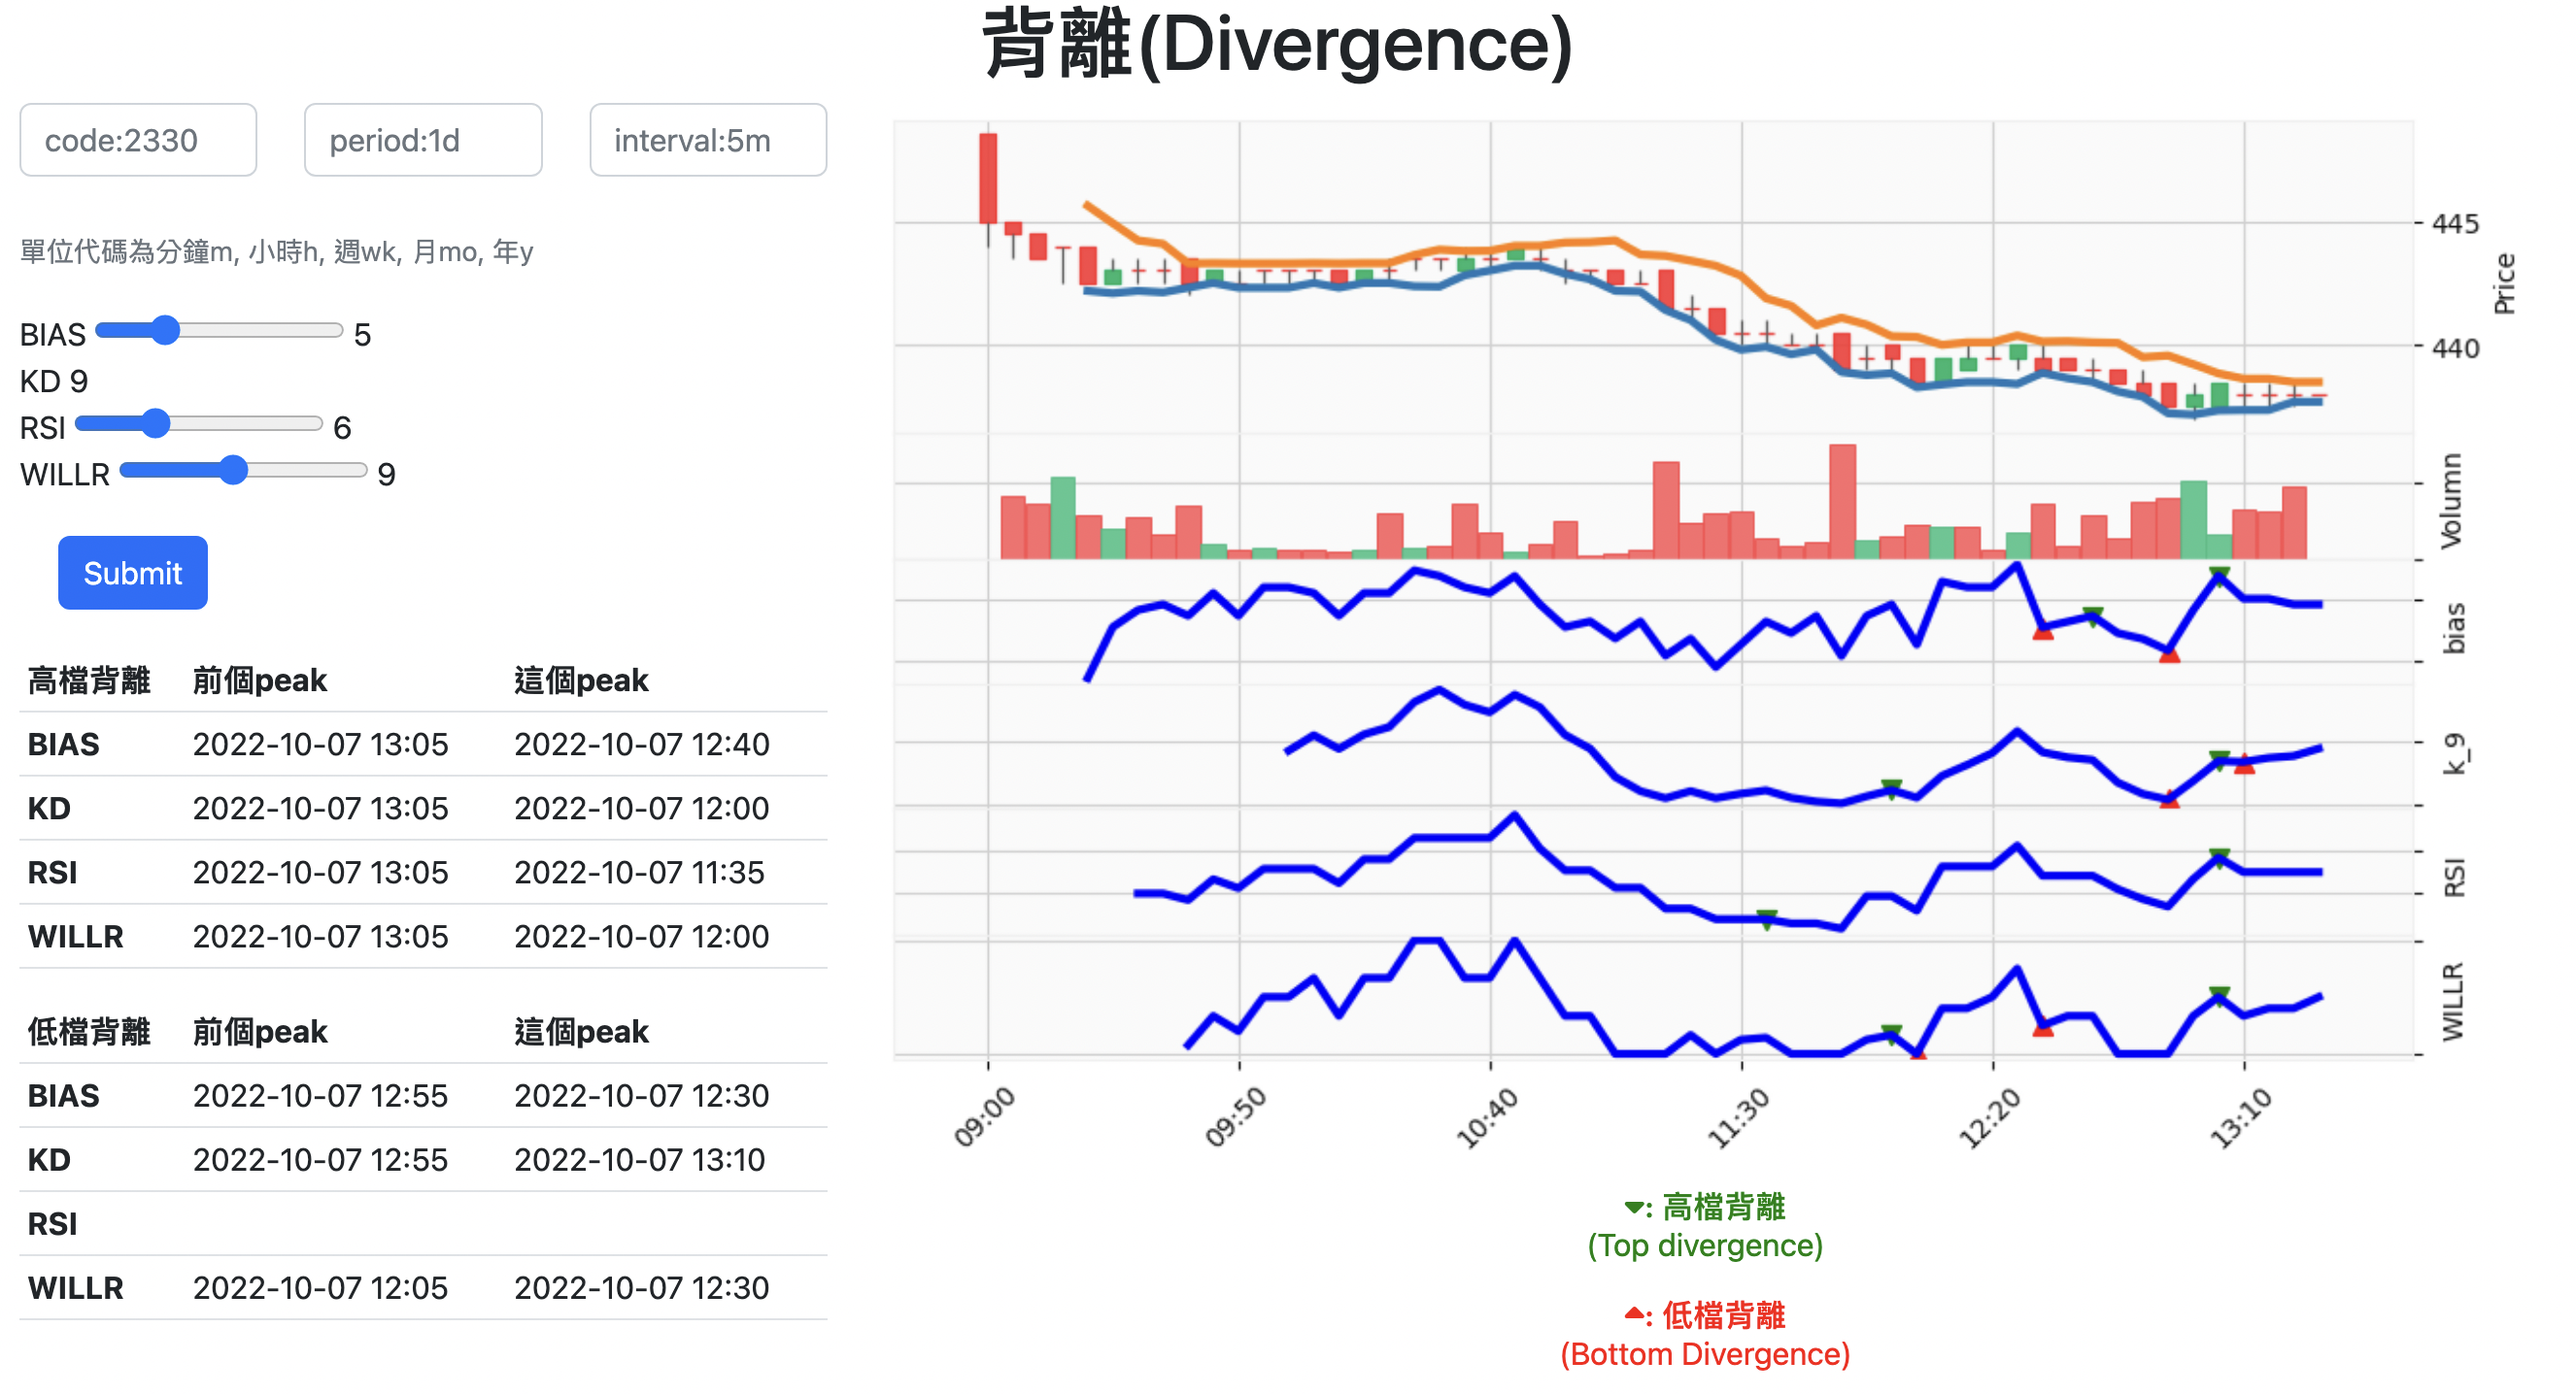
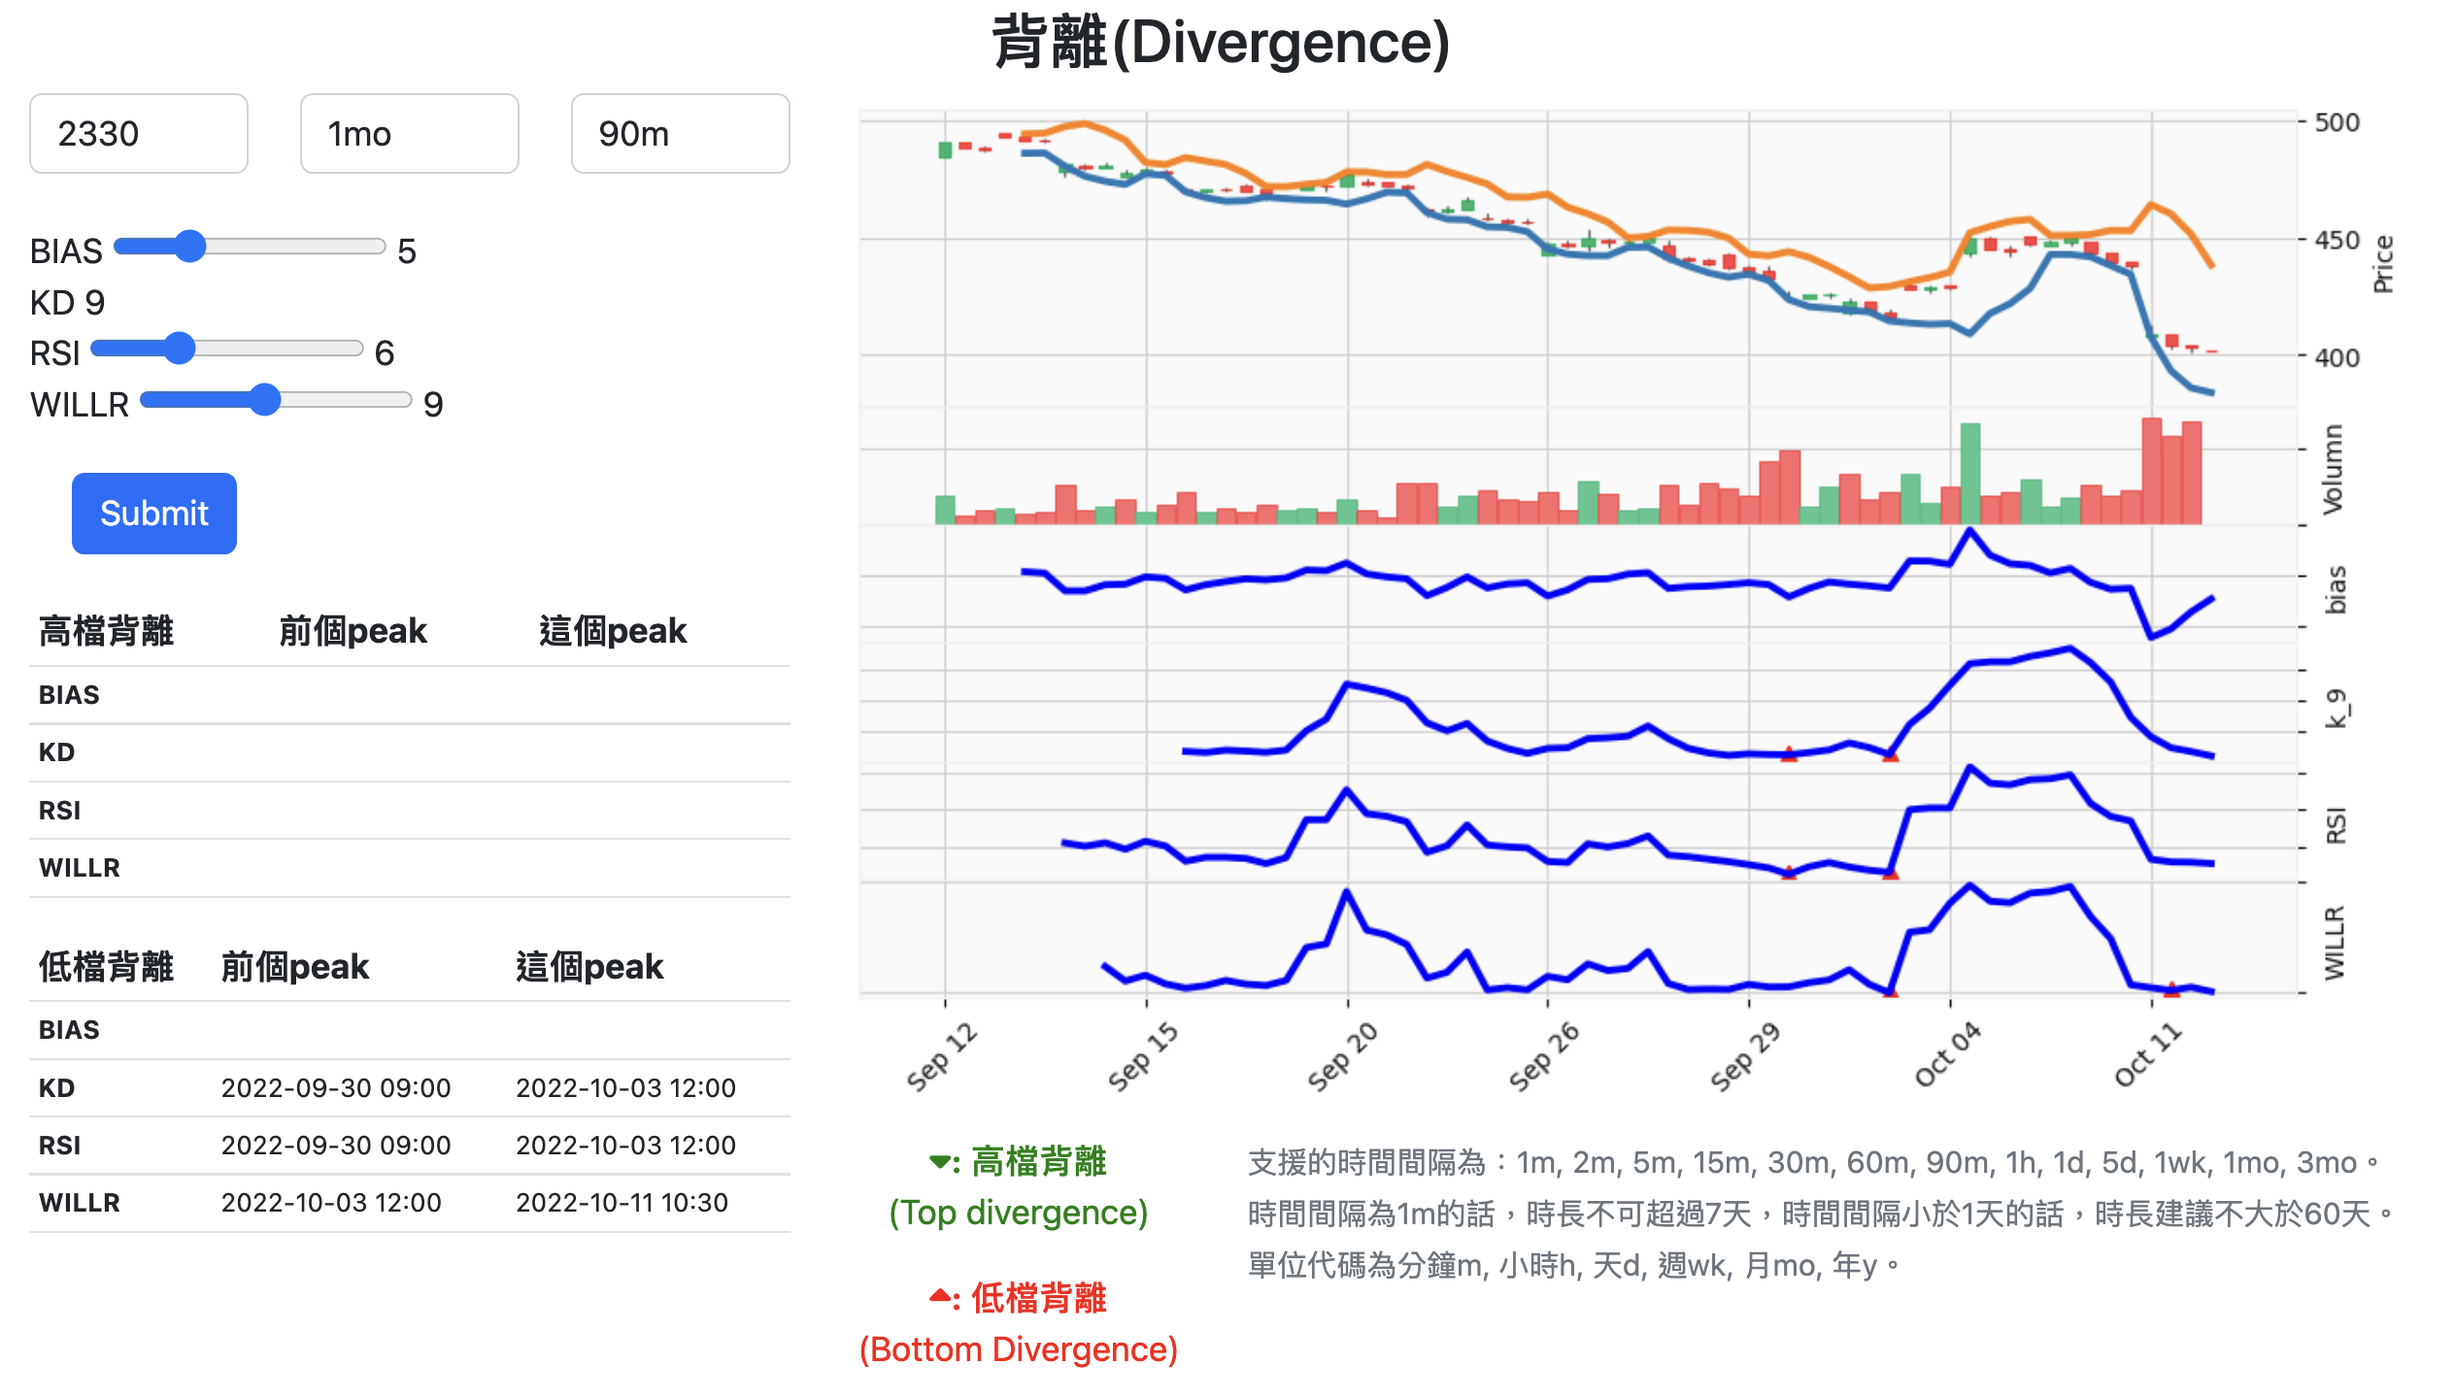
fix bottom divergence formula and image update function

diff --git a/stock_ta/templates/index.html b/stock_ta/templates/index.html
@@ -10,27 +10,24 @@
 </head>
 <body>
     <div class="container text-center">
-        <div class="row">
-            <h1>背離(Divergence)</h1>
+        <div class="row" style="margin-top:10px">
+            <h3>背離(Divergence)</h3>
         </div>
         <div class="row">
             <div class="col-4 text-start">
                 <form method="post">
                     {% csrf_token %}
-                    <div class="row" style="margin-bottom:20px">
+                    <div class="row" >
                         <div class="col">
-                            <input type="text" class="form-control" name="code" placeholder="code:{{ code }}">
+                            <input type="text" class="form-control" name="code" placeholder="code:{{ code }}", value = "{{ code }}">
                         </div>
                         
                         <div class="col">
-                            <input type="text" class="form-control" name="period" placeholder="period:{{ period}}">
+                            <input type="text" class="form-control" name="period" placeholder="period:{{ period}}", value = "{{ period }}">
                         </div>
                         <div class="col">
-                            <input type="text" class="form-control" name="interval" placeholder="interval:{{ interval }}"><br>
+                            <input type="text" class="form-control" name="interval" placeholder="interval:{{ interval }}", value = "{{ interval }}"><br>
                         </div>
-                        <small class="form-text text-muted">目前interval支援的時間間隔為：1m, 2m, 5m, 15m, 30m, 60m, 90m, 1h, 1d, 5d, 1wk, 1mo, 3mo。</small>
-                        <small class="form-text text-muted">interval為1m的話，period不可超過7天，interval小於1天的話，period不可大於60天。</small>
-                        <small class="form-text text-muted">單位代碼為分鐘m, 小時h, 天d, 週wk, 月mo, 年y</small>
                     </div>
                     <label>BIAS</label>
                     <input type="range" class="form-control-range" name="bias" min="0" max="20" value="5" oninput="this.nextElementSibling.value = this.value">
@@ -44,16 +41,16 @@
                     <output>9</output><br>
                     <button class="btn btn-primary" type="submit" style="margin:20px">Submit</button>
                  </form>
-                 <div>
+                 <div class="text-center">
                     <table class="table table-sm" >
                         <thead>
-                          <tr>
-                            <th scope="col">高檔背離</th>
+                          <tr >
+                            <th scope="col"><i class="fa fa-caret-down" style="color: green;"></i></th>
                             <th scope="col">前個peak</th>
                             <th scope="col">這個peak</th>
                           </tr>
                         </thead>
-                        <tbody>
+                        <tbody style="font-size: 12px;">
                           <tr>
                             <th scope="row">BIAS</th>
                             <td>{{Divergences.bias_Top.time.0.1}}</td>
@@ -79,12 +76,12 @@
                       <table class="table table-sm" >
                         <thead>
                           <tr>
-                            <th scope="col">低檔背離</th>
+                            <th scope="col"><i class="fa-solid fa-caret-up" style="color: red"></i></th>
                             <th scope="col">前個peak</th>
                             <th scope="col">這個peak</th>
                           </tr>
                         </thead>
-                        <tbody>
+                        <tbody style="font-size: 12px;">
                           <tr>
                             <th scope="row">BIAS</th>
                             <td>{{Divergences.bias_Bottom.time.0.1}}</td>
@@ -115,10 +112,17 @@
                     <img id="img" src="../static/ta.png"+ new Date().getTime(); class="img-fluid float-left" alt="stock ta picture">
                 </div>
                 <div class="row" >
-                    <i class="fa fa-caret-down" style="color: green;" aria-hidden="true">: 高檔背離</i>
-                    <p style="color: green;">(Top divergence)</p>
+                  <div class="col-3 text-center">
+                    <i class="fa fa-caret-down" style="color: green;">: 高檔背離</i>
+                    <p style="color: green; margin-bottom: 5px;">(Top divergence)</p>
                     <i class="fa-solid fa-caret-up" style="color: red">: 低檔背離</i>
                     <p style="color: red;">(Bottom Divergence)</p>
+                  </div>
+                  <div class="col-9 text-start">
+                    <small class="form-text text-muted">支援的時間間隔為：1m, 2m, 5m, 15m, 30m, 60m, 90m, 1h, 1d, 5d, 1wk, 1mo, 3mo。</small><br>
+                    <small class="form-text text-muted">時間間隔為1m的話，時長不可超過7天，時間間隔小於1天的話，時長建議不大於60天。</small><br>
+                    <small class="form-text text-muted">單位代碼為分鐘m, 小時h, 天d, 週wk, 月mo, 年y。</small>
+                  </div>
                 </div>
       
             </div>
@@ -129,10 +133,11 @@
       function update() {
         var source = '../static/ta.png',
             timestamp = (new Date()).getTime(),
-            newUrl = source + '#' + timestamp;
+            newUrl = source + '?time' + timestamp;
         document.getElementById("img").src = newUrl;
-        setTimeout(update, 2000);
+        setTimeout(update, 3600000);
       }
+      
       update()
 
     </script>

diff --git a/stock_ta/ta.py b/stock_ta/ta.py
@@ -108,7 +108,7 @@ def BottomDivergence(ta_df, raw_df, num=3):
                 continue
             else:
                 lesser_ind = signal.index(lesser[-1])
-                if raw_df['Close'][current_ind] > raw_df['Close'][lesser_ind]:
+                if raw_df['Close'][current_ind] < raw_df['Close'][lesser_ind]:
                     BottomSignal['time'].append([raw_df.index[current_ind], raw_df.index[lesser_ind]])
                     for i,value in enumerate(ta_df):
                         if i in [current_ind, lesser_ind]:
